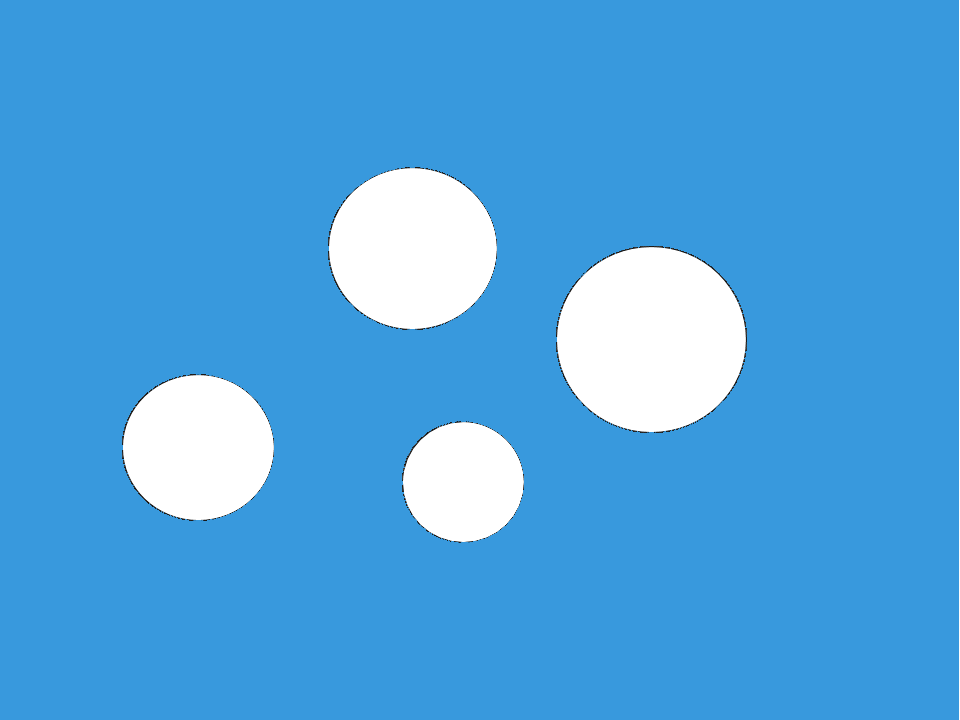
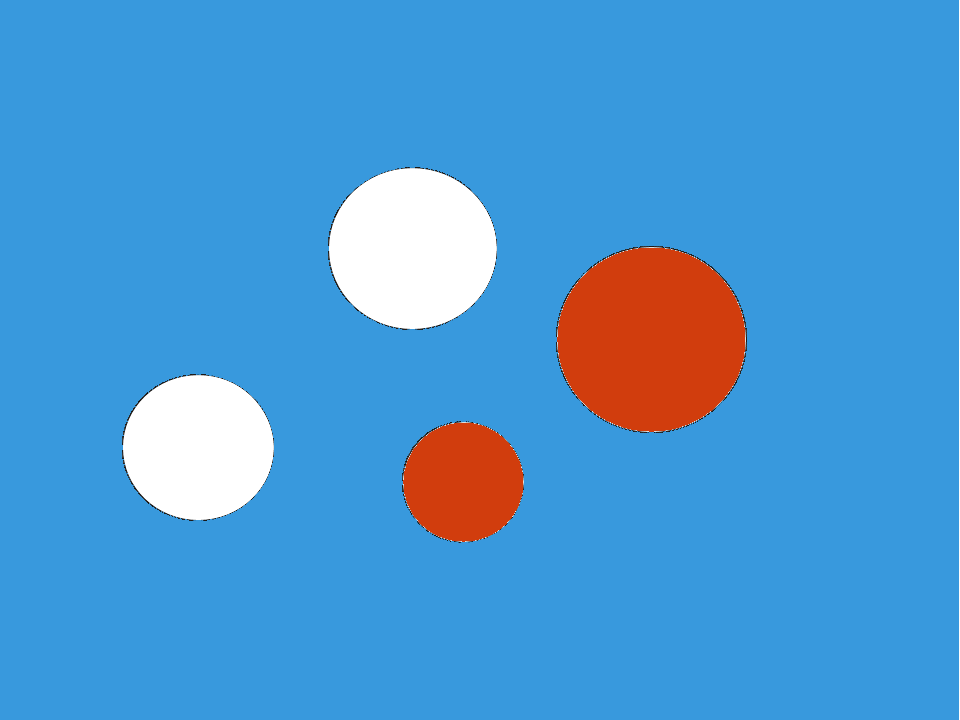
EBGURG-468 Add unit tests for detecting whether cups are filled

Changed region(s): [[0.5625, 0.3361, 0.7812, 0.6111], [0.4062, 0.5806, 0.5625, 0.7639]]

diff --git a/vision/location_component/unitTests/CupScanner_test.cpp b/vision/location_component/unitTests/CupScanner_test.cpp
@@ -55,3 +55,25 @@ TEST(CupScannerSuite, RecogniseMultipleCupsPositions)
   EXPECT_EQ(lCups.at(3).mMidpoint.x, 411);
   EXPECT_EQ(lCups.at(3).mMidpoint.y, 248);
 }
+
+TEST(CupScannerSuite, RecogniseMultipleCupsFilled)
+{
+  cv::Mat lImage =
+      cv::imread(getImagePath("Test_picture_cups.png"), cv::IMREAD_COLOR);
+  cv::Mat lMat;
+  lImage.copyTo(lMat);
+
+  location_component::CupScanner lScanner(gFrameCalibration,
+                                          gCupDetectionCalibration);
+
+  std::vector<location_component::DetectedCup> lCups =
+      lScanner.detectCups(lImage, lMat);
+
+  EXPECT_EQ(lCups.at(0).mFilled, true);
+
+  EXPECT_EQ(lCups.at(1).mFilled, false);
+
+  EXPECT_EQ(lCups.at(2).mFilled, true);
+
+  EXPECT_EQ(lCups.at(3).mFilled, false);
+}
